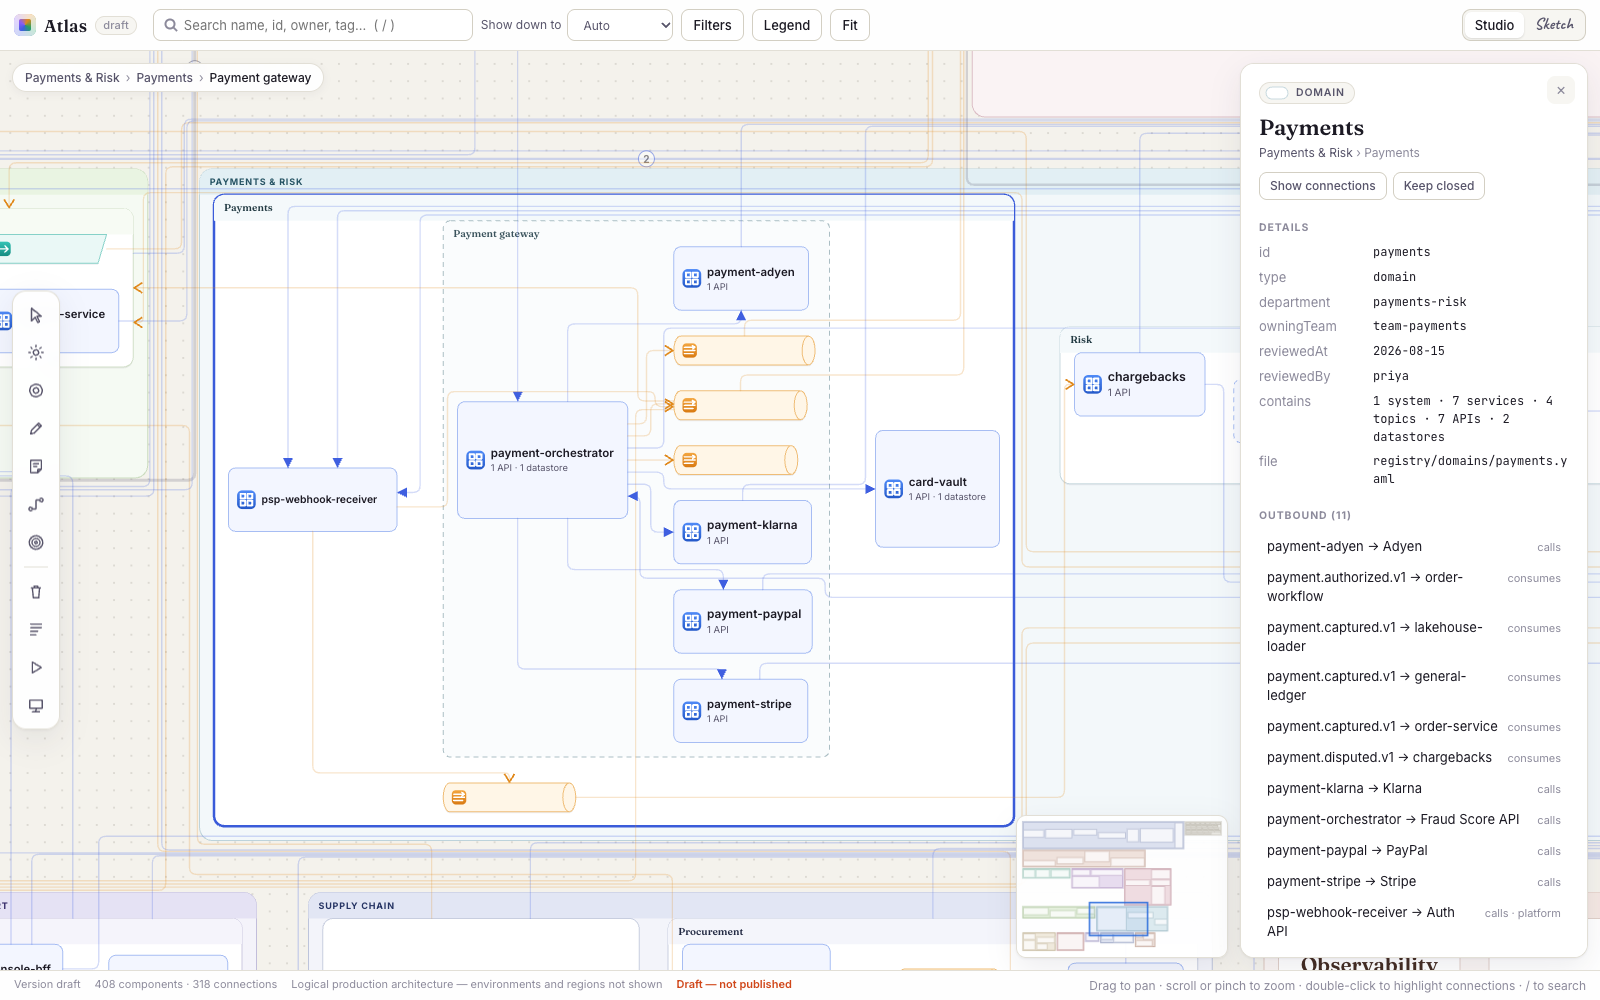
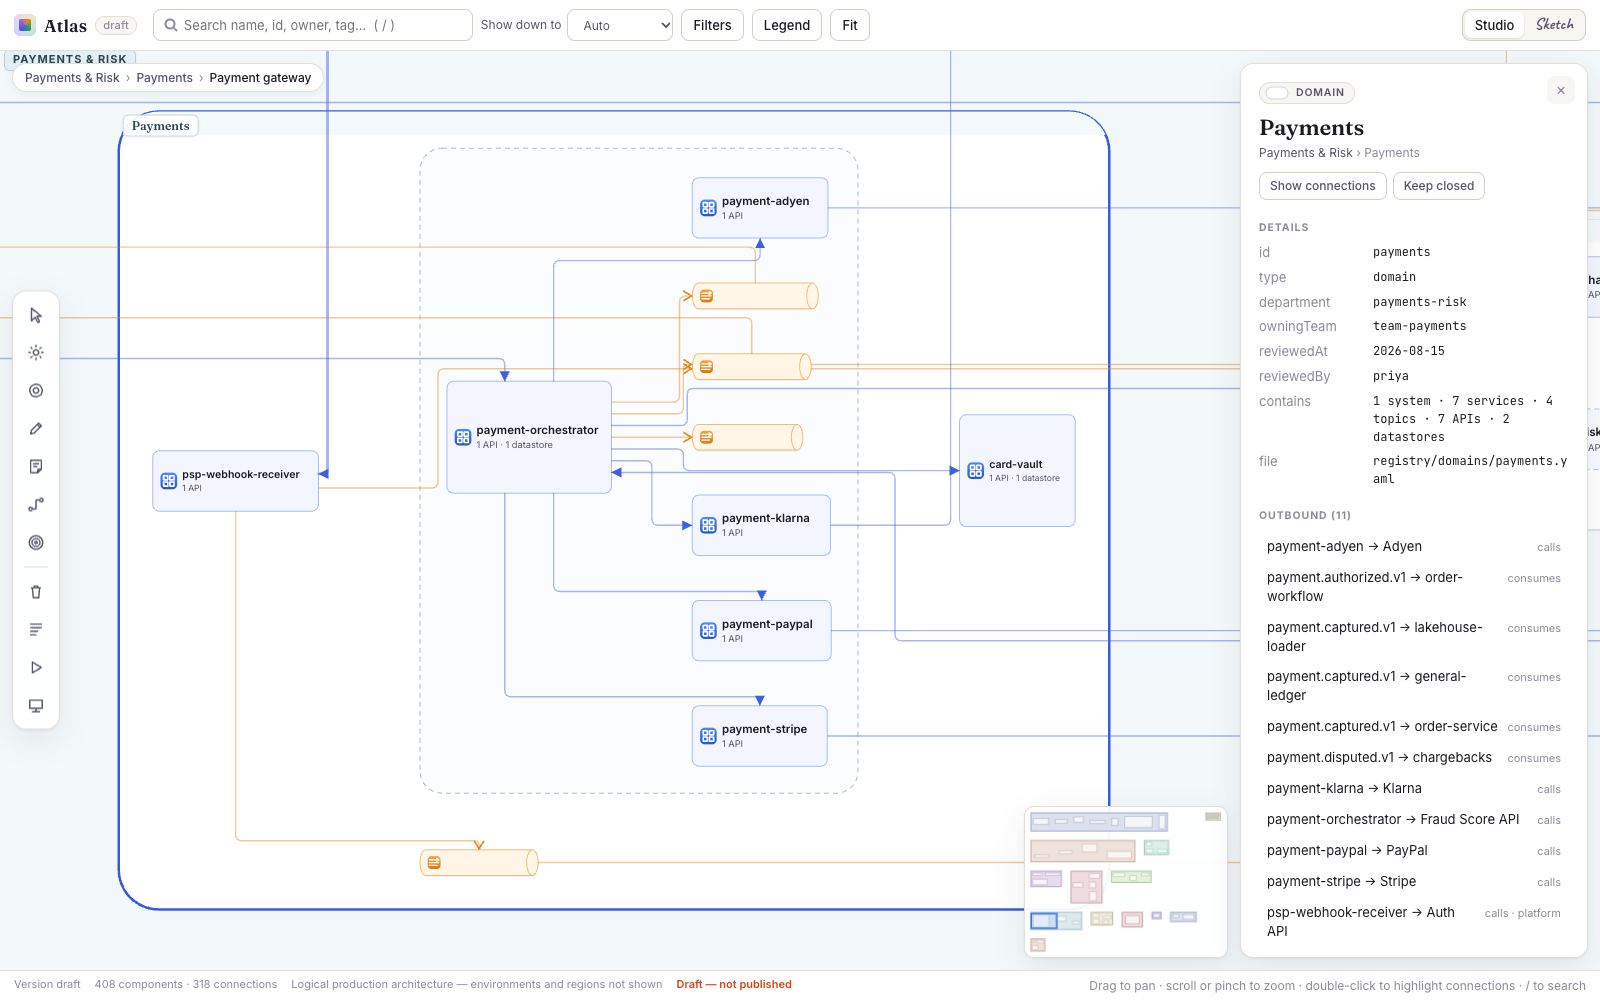
Give cards room and rounded corners at every zoom
Gaps between cards scale with the cards they separate, so departments
and domains get the same breathing room as services do, and gutters fit
lines, arrowheads and counts. Corner radii grow with the card. Closed
sibling services share one name size, and containers open only once
their children's names are big enough to draw, so no card opens blank.

diff --git a/src/viewer/shapes.ts b/src/viewer/shapes.ts
@@ -59,18 +59,18 @@ export function shapePath(type: NodeType, w: number, h: number): string {
       const s = Math.min(12, w / 8);
       return `M${s},0 H${w} L${w - s},${h} H0 Z`;
     }
-    case 'department':
-    case 'team':
-    case 'band':
-      return roundRect(w, h, 18);
-    case 'operation':
-    case 'schema':
-      return roundRect(w, h, 6);
-    case 'domain':
-      return roundRect(w, h, 14);
     default:
-      return roundRect(w, h, 10);
+      return roundRect(w, h, cornerRadius(type, w, h));
   }
+}
+
+/**
+ * Corner radius of a box. It grows with the card, so a large container still reads as rounded
+ * when zoomed out instead of shrinking to a square corner.
+ */
+export function cornerRadius(type: NodeType, w: number, h: number): number {
+  const base = type === 'department' || type === 'team' || type === 'band' ? 18 : type === 'domain' ? 14 : type === 'operation' || type === 'schema' ? 6 : 10;
+  return Math.min(64, Math.max(base, Math.min(w, h) * 0.05));
 }
 
 /** Second outline that gives a shape its 3D cue (tube end, cylinder lid). */
@@ -92,9 +92,12 @@ function roundRect(w: number, h: number, r: number): string {
 }
 
 /** Top band of an open container, behind its name. */
-export function headerBandPath(type: NodeType, w: number, band: number): string {
-  const r = type === 'department' || type === 'team' || type === 'band' ? 18 : type === 'domain' ? 14 : 10;
-  return `M0,${r} A${r},${r} 0 0 1 ${r},0 H${w - r} A${r},${r} 0 0 1 ${w},${r} V${band} H0 Z`;
+export function headerBandPath(type: NodeType, w: number, h: number, band: number): string {
+  const r = Math.min(cornerRadius(type, w, h), w / 2, h / 2);
+  if (r <= band) return `M0,${r} A${r},${r} 0 0 1 ${r},0 H${w - r} A${r},${r} 0 0 1 ${w},${r} V${band} H0 Z`;
+  // The corner is taller than the band: follow the arc down to where it meets the band's bottom.
+  const x = r - Math.sqrt(r * r - (r - band) * (r - band));
+  return `M${x},${band} A${r},${r} 0 0 1 ${r},0 H${w - r} A${r},${r} 0 0 1 ${w - x},${band} Z`;
 }
 
 /** Icon glyphs drawn in a 16×16 box, white on the type chip. */
@@ -109,7 +112,7 @@ const ICONS: Partial<Record<NodeType, string>> = {
   schema: 'M2.5,3 h11 v10 h-11 Z M2.5,6.5 H13.5 M2.5,9.8 H13.5 M6.5,6.5 V13',
 };
 
-const CHIP_TYPES = new Set<NodeType>(['service', 'api', 'apigroup', 'topic', 'channel', 'datastore', 'external', 'schema']);
+export const CHIP_TYPES = new Set<NodeType>(['service', 'api', 'apigroup', 'topic', 'channel', 'datastore', 'external', 'schema']);
 
 function chip(type: NodeType, x: number, y: number, size: number): SVGGElement {
   const g = svgEl<SVGGElement>('g', { class: 'chip', transform: `translate(${x},${y})` });
@@ -158,7 +161,23 @@ export interface CardText {
  * Builds the SVG for one card in local coordinates. Visibility of the text parts is controlled
  * by `show-*` classes set from the LOD pass.
  */
-export function buildCard(n: BoardNode, opts: { container: boolean; staleText: string | null }): { g: SVGGElement; closed: CardText; open: CardText } {
+/**
+ * Name size a closed service-like card would pick on its own: fitted to the box, never above 30.
+ * Siblings share the smallest of theirs (`closedFs` in buildCard), so they show and hide their
+ * names at the same zoom instead of one at a time.
+ */
+export function closedChipFs(n: Pick<BoardNode, 'type' | 'name' | 'summary' | 'w' | 'h'>): number {
+  const { w, h } = n;
+  const cs = Math.min(26, h * 0.4);
+  const room = w - 12 - cs - 8 - 14;
+  const fit = Math.min(room / Math.max(1, textWidth(n.name, 1, 'label')), room / Math.max(1, textWidth(n.summary, 1 / 1.3, 'body')), h * 0.26, 30);
+  return Math.max(LEAF[n.type].font, fit);
+}
+
+export function buildCard(
+  n: BoardNode,
+  opts: { container: boolean; staleText: string | null; closedFs?: number },
+): { g: SVGGElement; closed: CardText; open: CardText } {
   const { w, h } = n;
   const g = svgEl<SVGGElement>('g', { transform: `translate(${n.x},${n.y})` });
   const isChip = CHIP_TYPES.has(n.type);
@@ -194,7 +213,7 @@ export function buildCard(n: BoardNode, opts: { container: boolean; staleText: s
   if (opts.container) {
     // Open: name band with the name (and chip) on the left, review date on the right.
     const band = n.type === 'service' || n.type === 'apigroup' ? 32 : 36;
-    g.append(svgEl('path', { class: 'band', d: headerBandPath(n.type, w, band) }));
+    g.append(svgEl('path', { class: 'band', d: headerBandPath(n.type, w, h, band) }));
     const hdrFs = n.type === 'department' ? 12.5 : 14;
     const hb = block(g, 'hdr', 14, band / 2, hdrFs, n.type === 'department' ? 13 : MAX_PX.header);
     let hx = 0;
@@ -215,8 +234,7 @@ export function buildCard(n: BoardNode, opts: { container: boolean; staleText: s
     if (isChip) {
       // Name sized to the box (like a closed domain), capped like any label.
       const cs = Math.min(26, h * 0.4);
-      const fit = Math.min((w - 12 - cs - 8 - 14) / Math.max(1, textWidth(n.name, 1, 'label')), (w - 12 - cs - 8 - 14) / Math.max(1, textWidth(n.summary, 1 / 1.3, 'body')), h * 0.26, 30);
-      closed = leafBlock(cg, 12, h / 2, cs, Math.max(spec.font, fit), n.summary, 'sum');
+      closed = leafBlock(cg, 12, h / 2, cs, opts.closedFs ?? closedChipFs(n), n.summary, 'sum');
     } else {
       const fit = Math.max(4, Math.min((w - 48) / Math.max(1, textWidth(n.name, 1, 'title')), h * 0.3));
       const sum = Math.max(3, Math.min(fit * 0.42, (w - 32) / Math.max(1, textWidth(n.summary, 1, 'body'))));

diff --git a/src/viewer/main.ts b/src/viewer/main.ts
@@ -9,7 +9,7 @@ import { routeAll, roundedPath, type Pt, type Rect, type RouteRequest } from '..
 import { LEVEL_NAMES } from '../registry/rules';
 import type { ConnectionKind } from '../registry/types';
 import { el, svgEl } from './dom';
-import { buildCard, buildDefs, deptHue, legendShape, MAX_PX, type CardText } from './shapes';
+import { buildCard, buildDefs, CHIP_TYPES, closedChipFs, deptHue, legendShape, MAX_PX, type CardText } from './shapes';
 import { initPresentation, type Highlight } from './present';
 
 const MIN_TEXT_PX = 9;
@@ -164,12 +164,21 @@ function staleInfo(n: BoardNode): { text: string; stale: boolean } | null {
   return { text: `reviewed ${at}${by ? ` by ${by}` : ''}`, stale: days > STALE_DAYS };
 }
 
+/** Closed service-like siblings share one name size: the smallest any of them needs. */
+const sharedClosedFs = new Map<string, number>();
+for (const p of model.nodes) {
+  const sibs = p.children.map((c) => nodes.get(c)!).filter((c) => (c.children.length || c.lazy) && CHIP_TYPES.has(c.type));
+  if (sibs.length < 2) continue;
+  const fs = Math.min(...sibs.map(closedChipFs));
+  for (const c of sibs) sharedClosedFs.set(c.id, fs);
+}
+
 function addCard(id: string) {
   const n = nodes.get(id)!;
   const container = n.children.length > 0 || !!n.lazy;
   const s = staleInfo(n);
   if (s?.stale) staleDomains.add(id);
-  const { g, closed, open } = buildCard(n, { container, staleText: s?.text ?? null });
+  const { g, closed, open } = buildCard(n, { container, staleText: s?.text ?? null, closedFs: sharedClosedFs.get(id) });
   const hue = hueFor(n);
   if (hue !== undefined) g.style.setProperty('--h', String(hue));
   const flags = [
@@ -187,13 +196,15 @@ function addCard(id: string) {
 roots.forEach(addCard);
 
 /**
- * Zoom at which a container's children become readable: the median child's name reaches 8 px.
+ * Zoom at which a container's children become readable: the median child's name reaches the size
+ * at which it is actually drawn (9 px, 10 for containers). Opening any earlier shows blank cards.
  * Containers stay closed (showing their own name and counts) until then.
  */
+const nameAt = (id: string) => MIN_TEXT_PX + (cards.get(id)!.container ? 1 : 0);
 const lodNodes = new Map<string, BoardNode & { openK?: number }>(
   model.nodes.map((n): [string, BoardNode & { openK?: number }] => {
     if (!n.children.length) return [n.id, n];
-    const ks = n.children.map((c) => 8 / Math.max(1, cards.get(c)!.closed.nameFs)).sort((a, b) => a - b);
+    const ks = n.children.map((c) => nameAt(c) / Math.max(1, cards.get(c)!.closed.nameFs)).sort((a, b) => a - b);
     return [n.id, { ...n, openK: ks[Math.floor(ks.length / 2)] }];
   }),
 );
@@ -225,7 +236,7 @@ let highlight: Highlight | null = null;
  * would open: everything that qualifies during a gesture goes out in one batched request.
  * Their children are placed inside the space the card already reserved.
  */
-const LAZY_OPEN_K = 8 / 11;
+const LAZY_OPEN_K = MIN_TEXT_PX / 11;
 const detailQueue = new Set<string>();
 const detailsLoading = new Set<string>();
 let detailTimer = 0;
@@ -282,7 +293,7 @@ function applyDetails(r: DetailResult) {
     addCard(n.id);
   }
   delete parent.lazy;
-  const ks = parent.children.map((c) => 8 / Math.max(1, cards.get(c)!.closed.nameFs)).sort((a, b) => a - b);
+  const ks = parent.children.map((c) => nameAt(c) / Math.max(1, cards.get(c)!.closed.nameFs)).sort((a, b) => a - b);
   lodNodes.set(parent.id, { ...parent, openK: ks.length ? ks[Math.floor(ks.length / 2)] : 0 });
   if (r.remove.size || r.add.length) {
     model.edges = model.edges.filter((e) => !r.remove.has(e.id)).concat(r.add);
@@ -549,7 +560,7 @@ function drawEdges() {
   }
   lifted = all.filter((l) => !fanned.has(l));
   svg.classList.toggle('dense', lifted.length > 150);
-  svg.classList.toggle('quiet', lifted.filter((l) => near(l.from) || near(l.to)).length > 70);
+  svg.classList.toggle('quiet', lifted.filter((l) => near(l.from) || near(l.to)).length > 40);
 
   const t1 = performance.now();
   const cache = new Map<string | null, string[]>();

diff --git a/src/layout/elk.ts b/src/layout/elk.ts
@@ -11,7 +11,7 @@ import { DETAIL_FONT, LEAF } from './sizes';
 export { DETAIL_FONT, LEAF };
 
 /** Name band at the top of every container, and side padding. */
-export const PAD = { top: 36, side: 20 };
+export const PAD = { top: 36, side: 32 };
 
 
 
@@ -29,26 +29,40 @@ const LAYERED = {
   'elk.edgeRouting': 'ORTHOGONAL',
 };
 
-/** Gutters are wide enough for a few parallel lines (for routing). */
-const CONTAINER_OPTIONS = {
-  ...LAYERED,
-  'elk.padding': `[top=${PAD.top},left=${PAD.side},bottom=${PAD.side},right=${PAD.side}]`,
-  'elk.spacing.nodeNode': '36',
-  'elk.layered.spacing.nodeNodeBetweenLayers': '64',
-  'elk.spacing.componentComponent': '40',
-  'elk.spacing.edgeNode': '18',
-  'elk.layered.spacing.edgeNodeBetweenLayers': '20',
-};
+/**
+ * Gutters leave room for several parallel lines, their arrowheads and count labels. They grow
+ * with the cards they separate: a fixed gap that looks generous between services is a sliver
+ * between whole domains once you zoom out to see them.
+ */
+function containerOptions(children: Array<{ w: number; h: number }>) {
+  const gap = Math.round(Math.max(56, typicalSize(children) * 0.5));
+  const side = Math.round(Math.max(PAD.side, gap * 0.6));
+  return {
+    ...LAYERED,
+    'elk.padding': `[top=${PAD.top + side - PAD.side},left=${side},bottom=${side},right=${side}]`,
+    'elk.spacing.nodeNode': String(gap),
+    'elk.layered.spacing.nodeNodeBetweenLayers': String(Math.round(gap * 1.8)),
+    'elk.spacing.componentComponent': String(Math.round(gap * 1.15)),
+    'elk.spacing.edgeNode': String(Math.round(Math.max(28, gap * 0.5))),
+    'elk.layered.spacing.edgeNodeBetweenLayers': String(Math.round(Math.max(28, gap * 0.5))),
+  };
+}
+
+/** Median card size, as the side of a square with the same area. */
+function typicalSize(items: Array<{ w: number; h: number }>): number {
+  const s = items.map((n) => Math.sqrt(n.w * n.h)).sort((a, b) => a - b);
+  return s[Math.floor(s.length / 2)] ?? 0;
+}
 
 /** Children of a service (APIs, datastores) sit in a tight column. */
 const SERVICE_OPTIONS = {
   ...LAYERED,
   'elk.direction': 'DOWN',
   'elk.aspectRatio': '0.6',
-  'elk.padding': `[top=${PAD.top},left=16,bottom=14,right=16]`,
-  'elk.spacing.nodeNode': '12',
-  'elk.layered.spacing.nodeNodeBetweenLayers': '16',
-  'elk.spacing.componentComponent': '12',
+  'elk.padding': `[top=${PAD.top},left=20,bottom=20,right=20]`,
+  'elk.spacing.nodeNode': '18',
+  'elk.layered.spacing.nodeNodeBetweenLayers': '22',
+  'elk.spacing.componentComponent': '18',
 };
 
 export function leafSize(n: Pick<BoardNode, 'type' | 'name' | 'detail'>): { w: number; h: number } {
@@ -102,7 +116,7 @@ export async function layoutBoard(
     const compact = n.type === 'service' || n.type === 'apigroup';
     const graph: ElkNode = {
       id: n.id,
-      layoutOptions: compact ? SERVICE_OPTIONS : CONTAINER_OPTIONS,
+      layoutOptions: compact ? SERVICE_OPTIONS : containerOptions(n.children.map((c) => nodes.get(c)!)),
       children: n.children.map((c) => ({ id: c, width: nodes.get(c)!.w, height: nodes.get(c)!.h })),
       edges: [...pairs].sort().map((p, i) => {
         const [a, b] = p.split('\u0000');
@@ -152,8 +166,8 @@ export async function layoutBoard(
     ...roots.filter((r) => isBand(r) && r.id !== '__external').map((r) => r.id).sort(),
   ];
 
-  const GAP = 72;
   const items = order.map((id) => nodes.get(id)!);
+  const GAP = Math.round(Math.max(120, typicalSize(items) * 0.45));
   const area = items.reduce((a, n) => a + (n.w + GAP) * (n.h + GAP), 0);
   const rowWidth = Math.max(Math.sqrt(area * 1.8), ...items.map((n) => n.w));
 

diff --git a/DECISIONS.md b/DECISIONS.md
@@ -65,7 +65,7 @@ Markers (PLATFORM, DISPUTED, MIGRATE, SHARED, SUPERSEDED, PLANNED, DEPRECATED) s
 - Datastores accessed by non-owners marked SHARED.
 
 ## D-15 Containers open when their children are readable
-A container opens at 320 px wide, because by then it should be large enough on screen to hold its children readably. Wide containers with many small children met the width long before their children's names were readable, which filled the screen with unlabelled cards. A container now also needs the zoom at which its median child's name reaches 8 px (with the same 0.85 hysteresis). Until then it stays closed and shows its own name and counts. Pins and "show down to" still override.
+A container opens at 320 px wide, because by then it should be large enough on screen to hold its children readably. Wide containers with many small children met the width long before their children's names were readable, which filled the screen with unlabelled cards. A container now also needs the zoom at which its median child's name reaches the size it is drawn at, 9 px or 10 px for a container's name (with the same 0.85 hysteresis). Closed service-like siblings share one name size, so they show their names together rather than one at a time. Until then it stays closed and shows its own name and counts. Pins and "show down to" still override.
 
 ## D-16 Drawing styles
 Two styles share every rule and differ only in CSS tokens: Studio (Fraunces titles, Inter labels, gradient type chips, soft card shadows, dot grid) and Sketch (Caveat handwriting for titles and labels at 1.3×, ink outlines, graph paper, no shadows). Body text, ids and tags stay in Inter/JetBrains Mono in both, for legibility. The choice is in the toolbar, the URL (`style=sketch`) and the viewer's local storage.
@@ -83,7 +83,7 @@ Platform links are included, since an outage of auth does break its callers.
 `registry/tours.yaml` holds named walkthroughs; each step has a caption and one of `focus`, `trace: [from, to]` or `impact` (+ `direction`), optionally `level`. They are validated with the rest of the registry. The viewer can record a draft tour from what's on screen and copy it as YAML to paste into the file, so tours go through the same review as everything else.
 
 ## D-20 Calm overview
-When more than 70 connections touch the screen and nothing is focused, lines draw faint until a card or line is double-clicked, or a trace or impact is shown.
+When more than 40 connections touch the screen and nothing is focused, lines draw faint until a card or line is double-clicked, or a trace or impact is shown.
 
 ## D-21 Spec0 boards are built in the browser
 A Spec0 page carries a data source, not a laid-out model. `src/viewer/boot.ts` fetches the snapshot, builds the chosen hierarchy (`src/spec0/board.ts`), lays it out with ELK in a Web Worker, and caches the layout in local storage per org, snapshot version and hierarchy. Registry boards still arrive laid out from `atlas build`. `layoutBoard` takes the ELK engine as a parameter so both paths share it.
@@ -104,3 +104,7 @@ Approved grants are `calls`, pending ones `requests` (dashed), rejected ones are
 Lines only change when you ask them to or when the view has settled. While a pan or zoom is in progress they keep their current routes, even if containers open or close underneath; 160 ms after the last movement they are regrouped and rerouted for what is now on screen. They are kept by key between redraws, so a line whose route didn't change isn't touched, new ones fade in and removed ones fade out. The exception is panning past the area the lines were drawn for, which draws the newly exposed part straight away.
 Hovering changes nothing, and a single click on a card only opens its panel. Highlighting is on double-click: a card's connections, or one line and the cards at its ends. Pinning a container open or closed, which double-click used to do, moved to the panel.
 A mouse wheel notch zooms by the same factor d3-zoom uses but eases there over a few frames around the pointer. Pinch goes straight to d3-zoom, and screen-constant sizes (`--k`, `--inv`) follow the zoom on every frame, which measured no slower than stepping them.
+
+## D-27 Room between cards, and rounded corners at every size
+Gaps between siblings scale with the cards they separate: half the typical card size (the side of a square with the median card's area), never under 56, with padding, layer spacing and the gap between top-level cards following from it. A fixed gap that looks generous between services shrinks to a sliver between whole domains once you zoom out to see them, and the gutters are where lines, arrowheads and counts have to fit.
+Corner radii grow with the card too (5% of its shorter side, between the type's base radius and 64), so a department still reads as a rounded box at overview zoom instead of a sharp rectangle.
